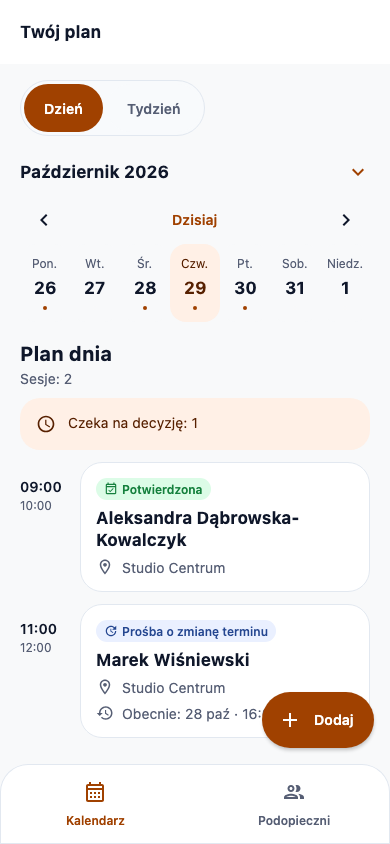
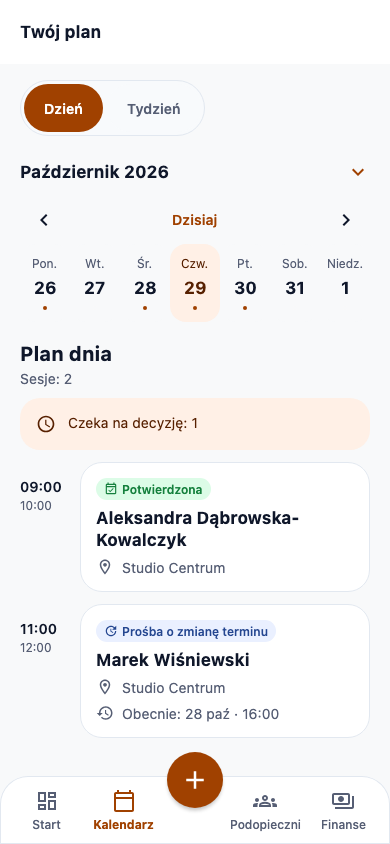
feat: port main trainer navigation with shared colors

diff --git a/shared/src/commonMain/kotlin/pl/trainer/ui/TrainerApp.kt b/shared/src/commonMain/kotlin/pl/trainer/ui/TrainerApp.kt
@@ -1,9 +1,6 @@
 package pl.trainer.ui
 
 import androidx.compose.foundation.layout.*
-import androidx.compose.foundation.BorderStroke
-import androidx.compose.ui.draw.clip
-import androidx.compose.ui.graphics.Color
 import androidx.compose.foundation.rememberScrollState
 import androidx.compose.foundation.verticalScroll
 import androidx.compose.material.icons.Icons
@@ -14,7 +11,6 @@ import androidx.compose.runtime.*
 import androidx.compose.runtime.saveable.rememberSaveableStateHolder
 import androidx.compose.ui.Alignment
 import androidx.compose.ui.Modifier
-import androidx.compose.ui.platform.LocalDensity
 import androidx.compose.ui.semantics.heading
 import androidx.compose.ui.semantics.liveRegion
 import androidx.compose.ui.semantics.LiveRegionMode
@@ -42,10 +38,6 @@ fun TrainerApp(model: TrainerViewModel = viewModel { TrainerViewModel(DemoTraine
 @Composable
 private fun TrainerAppContent(state: TrainerUiState, model: TrainerViewModel) {
     val snackbar = remember { SnackbarHostState() }
-    val floatingElevation = FloatingActionButtonDefaults.elevation(
-        defaultElevation = Layout.floatingElevation, pressedElevation = Layout.activeFloatingElevation,
-        focusedElevation = Layout.floatingElevation, hoveredElevation = Layout.activeFloatingElevation,
-    )
     var addMenu by remember { mutableStateOf(false) }
     var infoDialog by remember { mutableStateOf<String?>(null) }
     val savedMessage = tr(Res.string.saved)
@@ -60,7 +52,11 @@ private fun TrainerAppContent(state: TrainerUiState, model: TrainerViewModel) {
         if (state.saved) { snackbar.showSnackbar(savedMessage); model.dismissFeedback() }
     }
     val title = tr(when (val route = state.route) {
-        Route.Main -> if (state.destination == Destination.Calendar) Res.string.your_schedule else Res.string.your_clients
+        Route.Main -> when (state.destination) {
+            Destination.Calendar -> Res.string.your_schedule
+            Destination.Clients -> Res.string.your_clients
+            else -> state.destination.label()
+        }
         is Route.SessionDetail -> if (state.data?.sessions?.find { it.id == route.id }?.needsAttention() == true) Res.string.request_detail else Res.string.session_detail
         is Route.ClientDetail -> Res.string.client_detail
         is Route.SessionEditor -> if (route.sessionId == null) Res.string.new_session else Res.string.propose_time
@@ -85,32 +81,9 @@ private fun TrainerAppContent(state: TrainerUiState, model: TrainerViewModel) {
             }
         },
         bottomBar = {
-            if (main) Surface(shape = Layout.navigation, color = MaterialTheme.colorScheme.surface,
-                border = BorderStroke(1.dp, MaterialTheme.colorScheme.outlineVariant)) {
-                NavigationBar(modifier = Modifier.clip(Layout.navigation), containerColor = Color.Transparent, tonalElevation = 0.dp) {
-                    Destination.entries.forEach { destination ->
-                        NavigationBarItem(selected = state.destination == destination, onClick = { model.destination(destination) },
-                            colors = NavigationBarItemDefaults.colors(indicatorColor = Color.Transparent,
-                                selectedIconColor = MaterialTheme.colorScheme.primary, selectedTextColor = MaterialTheme.colorScheme.primary),
-                            icon = { Icon(if (destination == Destination.Calendar) Icons.Outlined.CalendarMonth else Icons.Outlined.PeopleOutline, null) },
-                            label = { Text(tr(if (destination == Destination.Calendar) Res.string.calendar else Res.string.trainees)) })
-                    }
-                }
-            }
-        },
-        floatingActionButton = {
-            if (main && state.destination == Destination.Calendar && state.data != null && !state.loading && state.failure == null) {
-                if (LocalDensity.current.fontScale >= 1.5f) FloatingActionButton(onClick = { addMenu = true },
-                    shape = Layout.pill,
-                    elevation = floatingElevation,
-                    containerColor = MaterialTheme.colorScheme.primary, contentColor = MaterialTheme.colorScheme.onPrimary) {
-                    Icon(Icons.Outlined.Add, tr(Res.string.add))
-                } else ExtendedFloatingActionButton(onClick = { addMenu = true },
-                    shape = Layout.pill,
-                    elevation = floatingElevation,
-                    containerColor = MaterialTheme.colorScheme.primary, contentColor = MaterialTheme.colorScheme.onPrimary,
-                    icon = { Icon(Icons.Outlined.Add, null) }, text = { Text(tr(Res.string.add)) })
-            }
+            if (main) TrainerBottomBar(state.destination, onSelect = model::destination,
+                onCreate = { addMenu = true },
+                createEnabled = state.data != null && !state.loading && state.failure == null && !state.submitting)
         },
         snackbarHost = { SnackbarHost(snackbar) },
     ) { insets ->
@@ -137,9 +110,17 @@ private fun TrainerAppContent(state: TrainerUiState, model: TrainerViewModel) {
                     }
                     state.data != null -> screenState.SaveableStateProvider(screenKey) {
                         when (val route = state.route) {
-                            Route.Main -> if (state.destination == Destination.Calendar) CalendarScreen(state, model::date, model::mode,
-                                { model.navigate(Route.Availability) }, { model.navigate(Route.SessionDetail(it)) }, { model.navigate(Route.SessionEditor()) })
-                            else ClientsScreen(state, model::search, model::filter, model::clientTab, { model.navigate(Route.ClientDetail(it)) }, { infoDialog = "invite" })
+                            Route.Main -> when (state.destination) {
+                                Destination.Calendar -> CalendarScreen(state, model::date, model::mode,
+                                    { model.navigate(Route.Availability) }, { model.navigate(Route.SessionDetail(it)) }, { model.navigate(Route.SessionEditor()) })
+                                Destination.Clients -> ClientsScreen(state, model::search, model::filter, model::clientTab,
+                                    { model.navigate(Route.ClientDetail(it)) }, { infoDialog = "invite" })
+                                Destination.Start, Destination.Finance -> Box(Modifier.fillMaxSize().padding(Layout.gutter), contentAlignment = Alignment.Center) {
+                                    EmptyContent(if (state.destination == Destination.Start) Icons.Outlined.Dashboard else Icons.Outlined.Payments,
+                                        tr(state.destination.label()), tr(Res.string.screen_integration_pending), tr(Res.string.open_calendar),
+                                        { model.destination(Destination.Calendar) })
+                                }
+                            }
                             is Route.SessionDetail -> state.data.sessions.find { it.id == route.id }?.let { session ->
                                 SessionDetailScreen(state, session,
                                     onClient = { model.navigate(Route.ClientDetail(session.clientId)) }, onEdit = { model.navigate(Route.SessionEditor(sessionId = session.id)) },

diff --git a/shared/src/commonMain/kotlin/pl/trainer/ui/TrainerBottomBar.kt b/shared/src/commonMain/kotlin/pl/trainer/ui/TrainerBottomBar.kt
@@ -1,0 +1,97 @@
+package pl.trainer.ui
+
+import androidx.compose.foundation.BorderStroke
+import androidx.compose.foundation.clickable
+import androidx.compose.foundation.layout.*
+import androidx.compose.foundation.shape.CircleShape
+import androidx.compose.material.icons.Icons
+import androidx.compose.material.icons.outlined.*
+import androidx.compose.material3.*
+import androidx.compose.runtime.Composable
+import androidx.compose.ui.Alignment
+import androidx.compose.ui.Modifier
+import androidx.compose.ui.platform.LocalDensity
+import androidx.compose.ui.semantics.disabled
+import androidx.compose.ui.semantics.Role
+import androidx.compose.ui.semantics.selected
+import androidx.compose.ui.semantics.semantics
+import androidx.compose.ui.text.font.FontWeight
+import androidx.compose.ui.unit.dp
+import pl.trainer.presentation.Destination
+import pl.trainer.resources.*
+
+/** Main's four-tab shell and central create action, adapted to the shared theme. */
+@Composable
+fun TrainerBottomBar(selected: Destination, onSelect: (Destination) -> Unit, onCreate: () -> Unit, createEnabled: Boolean) {
+    val expandedLabels = LocalDensity.current.fontScale >= 1.5f
+    Box(Modifier.fillMaxWidth()) {
+        Surface(
+            modifier = Modifier.fillMaxWidth().padding(top = Layout.navigationOverhang),
+            shape = Layout.navigation,
+            color = MaterialTheme.colorScheme.surface.copy(alpha = 0.95f),
+            border = BorderStroke(1.dp, MaterialTheme.colorScheme.outlineVariant),
+        ) {
+            Column(Modifier.navigationBarsPadding().padding(horizontal = Layout.small)) {
+                Row(Modifier.fillMaxWidth().height(IntrinsicSize.Min).heightIn(min = Layout.navigationHeight),
+                    verticalAlignment = Alignment.CenterVertically) {
+                    NavItem(Destination.Start, selected, onSelect)
+                    NavItem(Destination.Calendar, selected, onSelect)
+                    if (!expandedLabels) {
+                        Spacer(Modifier.width(Layout.navigationCreateGap))
+                        NavItem(Destination.Clients, selected, onSelect)
+                        NavItem(Destination.Finance, selected, onSelect)
+                    }
+                }
+                if (expandedLabels) Row(Modifier.fillMaxWidth().height(IntrinsicSize.Min).heightIn(min = Layout.navigationHeight)) {
+                    NavItem(Destination.Clients, selected, onSelect)
+                    NavItem(Destination.Finance, selected, onSelect)
+                }
+            }
+        }
+        FloatingActionButton(
+            onClick = { if (createEnabled) onCreate() },
+            modifier = Modifier.align(Alignment.TopCenter).size(Layout.navigationCreateSize)
+                .semantics { if (!createEnabled) disabled() },
+            shape = CircleShape,
+            containerColor = MaterialTheme.colorScheme.primary,
+            contentColor = MaterialTheme.colorScheme.onPrimary,
+            elevation = FloatingActionButtonDefaults.elevation(
+                defaultElevation = Layout.floatingElevation, pressedElevation = Layout.activeFloatingElevation,
+                focusedElevation = Layout.floatingElevation, hoveredElevation = Layout.activeFloatingElevation,
+            ),
+        ) {
+            Icon(Icons.Outlined.Add, tr(Res.string.add), Modifier.size(30.dp))
+        }
+    }
+}
+
+@Composable
+private fun RowScope.NavItem(destination: Destination, selected: Destination, onSelect: (Destination) -> Unit) {
+    val active = destination == selected
+    val tint = if (active) MaterialTheme.colorScheme.primary else MaterialTheme.colorScheme.onSurfaceVariant
+    val icon = when (destination) {
+        Destination.Start -> Icons.Outlined.Dashboard
+        Destination.Calendar -> Icons.Outlined.CalendarToday
+        Destination.Clients -> Icons.Outlined.Groups
+        Destination.Finance -> Icons.Outlined.Payments
+    }
+    Column(
+        modifier = Modifier.weight(1f).fillMaxHeight().heightIn(min = Layout.target)
+            .clickable(role = Role.Tab) { onSelect(destination) }.semantics { this.selected = active }
+            .padding(vertical = Layout.small),
+        horizontalAlignment = Alignment.CenterHorizontally,
+        verticalArrangement = Arrangement.spacedBy(Layout.tiny, Alignment.CenterVertically),
+    ) {
+        Icon(icon, null, Modifier.size(24.dp), tint = tint)
+        Text(tr(destination.label()), color = tint,
+            textAlign = androidx.compose.ui.text.style.TextAlign.Center,
+            style = MaterialTheme.typography.labelMedium.copy(fontWeight = if (active) FontWeight.Bold else FontWeight.Medium))
+    }
+}
+
+internal fun Destination.label() = when (this) {
+    Destination.Start -> Res.string.nav_start
+    Destination.Calendar -> Res.string.calendar
+    Destination.Clients -> Res.string.trainees
+    Destination.Finance -> Res.string.nav_finance
+}

diff --git a/shared/src/desktopTest/kotlin/pl/trainer/TrainerUiTest.kt b/shared/src/desktopTest/kotlin/pl/trainer/TrainerUiTest.kt
@@ -133,8 +133,20 @@ class TrainerUiTest {
             setContent { TrainerApp(model) }
             waitUntil { !model.state.value.loading }
             onNodeWithText("Twój plan").assertExists()
+            onNodeWithText("Kalendarz").assertIsSelected()
+            onNodeWithText("Start").performClick()
+            onNode(hasText("Start") and hasClickAction()).assertIsSelected()
+            onNodeWithText("Otwórz kalendarz").performClick()
+            onNodeWithText("Finanse").performClick()
+            onNode(hasText("Finanse") and hasClickAction()).assertIsSelected()
+            onNodeWithContentDescription("Dodaj").performClick()
+            onNodeWithText("Dodaj sesję").performClick()
+            onNodeWithText("Podopieczny").assertExists()
+            onNodeWithContentDescription("Dodaj").assertDoesNotExist()
+            onNodeWithContentDescription("Wstecz").performClick()
+            onNodeWithText("Otwórz kalendarz").performClick()
             onAllNodes(hasText("demo", substring = true, ignoreCase = true)).assertCountEquals(0)
-            onNodeWithText("Dodaj", useUnmergedTree = true).performClick()
+            onNodeWithContentDescription("Dodaj").performClick()
             onNodeWithText("Dostępność").assertExists()
             onNodeWithText("Dodaj sesję").assertExists()
             onNodeWithText("Dostępność").performClick()

diff --git a/shared/src/commonMain/kotlin/pl/trainer/ui/CalendarScreen.kt b/shared/src/commonMain/kotlin/pl/trainer/ui/CalendarScreen.kt
@@ -44,7 +44,7 @@ fun CalendarScreen(state: TrainerUiState, onDate: (LocalDate) -> Unit, onMode: (
     val visibleDays = if (state.calendarMode == CalendarMode.Day) listOf(state.selectedDate) else dates
     val visibleSessions = data.sessions.filter { it.status != SessionStatus.Rejected && it.status != SessionStatus.CancelledByTrainer }
 
-    LazyColumn(modifier = Modifier.testTag("calendar-list"), contentPadding = PaddingValues(start = Layout.gutter, end = Layout.gutter, top = Layout.padding, bottom = 100.dp),
+    LazyColumn(modifier = Modifier.testTag("calendar-list"), contentPadding = PaddingValues(start = Layout.gutter, end = Layout.gutter, top = Layout.padding, bottom = Layout.padding),
         verticalArrangement = Arrangement.spacedBy(Layout.medium)) {
         item {
             PillTabs(CalendarMode.entries, state.calendarMode,

diff --git a/shared/src/commonMain/kotlin/pl/trainer/ui/Theme.kt b/shared/src/commonMain/kotlin/pl/trainer/ui/Theme.kt
@@ -21,6 +21,10 @@ object Layout {
     val target = 48.dp
     val buttonHeight = 52.dp
     val headerHeight = 64.dp
+    val navigationHeight = 68.dp
+    val navigationOverhang = 24.dp
+    val navigationCreateSize = 56.dp
+    val navigationCreateGap = 64.dp
     val floatingElevation = 2.dp
     val activeFloatingElevation = 3.dp
     val contentWidth = 640.dp

diff --git a/shared/src/commonMain/kotlin/pl/trainer/presentation/TrainerViewModel.kt b/shared/src/commonMain/kotlin/pl/trainer/presentation/TrainerViewModel.kt
@@ -12,7 +12,7 @@ import kotlin.time.Instant
 import pl.trainer.data.DemoTrainerRepository
 import pl.trainer.domain.*
 
-enum class Destination { Calendar, Clients }
+enum class Destination { Start, Calendar, Clients, Finance }
 enum class ClientFilter { All, Overdue }
 enum class ClientTab { Current, Archive }
 enum class CalendarMode { Day, Week }

diff --git a/docs/main-design-alignment.md b/docs/main-design-alignment.md
@@ -11,7 +11,7 @@ Compared against `origin/main` at **356b4f89323c6d780ea6f1a006fe0b60637eda80**. 
 | Tabs | `PillTabs` uses an inset, rounded track with a filled selection. | One shared `PillTabs` replaces the default segmented switcher and underlined trainee tabs. It uses our strong brand/white pair and retains 48 dp targets and horizontal scrolling. |
 | Header | Shell/detail headers use white, 64 dp chrome with 17/22 bold titles. | Adopted a white header, 64 dp minimum height and shared 17/22 bold title styling. Headers grow for scaled text instead of clipping it to main's fixed height. |
 | Typography | Main uses bold 20/26 section and 17/22 item titles. | Updated shared title weights to bold; body sizes remain unchanged. |
-| Navigation | Main has a 28 dp upper-corner frame. | Added the rounded upper edge and subtle outline to the existing two-destination shell. Selected tabs use the retained primary color. |
+| Navigation | Main has a 28 dp upper-corner frame. | Imported main’s four-tab layout and central create control; the rounded upper edge, subtle outline and selected tabs use our shared theme. |
 | Buttons | Primary buttons use a pill shape and 52 dp minimum height. | Made both explicit in the shared primary button. The add control uses the same pill geometry. |
 | Shadows | Main includes 6–16 dp decorative shadows and brand-colored glows. | Ordinary cards and navigation are flat. Floating controls use 2 dp at rest and 3 dp while pressed/hovered. |
 
@@ -73,3 +73,11 @@ All 27 behavior/UI tests pass, and Android build/lint succeed with the existing 
 | ![Before](previews/trainer-clients-before-alignment.png) | ![After](previews/trainer-clients.png) |
 
 [Updated profile](previews/trainer-client-profile.png)
+
+## Imported trainer bottom bar
+
+The branch now ports `TrainerBottomBar` / `NavItem` from main's `shell/AppShell.kt` into the shared Compose shell: Start, Calendar, Trainees, Finance and the central 56 dp create control with 24 dp overhang. Selected tabs and the create control use our strong brand color; labels use our supporting text color and the bar uses the shared surface/outline. The bar is flat, with a restrained 2 dp create-button shadow. At 150% text and above, tabs use two rows to keep full labels readable.
+
+Calendar and Trainees retain their existing routes. The create control replaces the calendar's separate floating button and opens the session/availability menu from every tab. Detail/edit routes hide the bottom bar. Start and Finance are explicit integration placeholders; this port does not import main's Android-only feature implementations or resolve the build-stack conflict described above.
+
+Verified with the 27 existing behavior/UI tests (including tab selection, create from Finance, and hidden navigation on editor routes), Android assembly and lint. Updated [calendar](previews/trainer-calendar.png), [trainees](previews/trainer-clients.png), and [200% text navigation](previews/trainer-navigation-font200.png) are actual Compose test renders. Native system-bar/keyboard behavior remains unverified.
